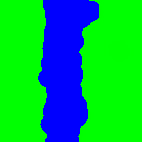
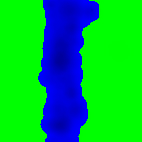
fixed minimap generation

Changed region(s): [[0.3099, 0.0, 0.6761, 0.9859]]

diff --git a/mapEditorAppState.cpp b/mapEditorAppState.cpp
@@ -64,15 +64,25 @@ namespace battleship{
 		}
 		else{
 			map->load(name);
-
 			int numPlayers = map->getNumSpawnPoints();
-			int numVerts = 3 * map->getNodeParent()->getChild(0)->getMesh(0)->getMeshBase().numTris;
-			oldLandmassVertHeights = new float[numVerts];
 
 			for(int i = 0; i < numPlayers; i++)
 				game->addPlayer(new Player(0, 0, 0, Vector3(1, 1, 1)));
 
 			map->loadPlayersGameObjects();
+
+			MeshData meshData = map->getNodeParent()->getChild(0)->getMesh(0)->getMeshBase();
+			int minId = 0, numVerts = 3 * meshData.numTris;
+			oldLandmassVertHeights = new float[numVerts];
+
+			for(int i = 0; i < numVerts; i++){
+				oldLandmassVertHeights[i] = meshData.vertices[i].pos->y;
+
+				if(oldLandmassVertHeights[i] < oldLandmassVertHeights[minId])
+					minId = i;
+			}
+
+			map->setBaseHeight(oldLandmassVertHeights[minId]);
 		}
 	}
 
@@ -412,16 +422,16 @@ namespace battleship{
 		Vector3 mapSize = map->getMapSize(), cellSize = map->getCellSize();
 		int width = int(mapSize.x / cellSize.x);
 		int height = int(mapSize.z / cellSize.z);
-		int numChannels = 3;
+		int cellId = 0, numChannels = 3;
 		int size = width * height * numChannels;
-		int cellId = 0;
 		float baseHeight = map->getBaseHeight();
 
 		u8 *imgData = new u8[size];
 
 		for(u8 *p = imgData; p != imgData + size; p+= numChannels, cellId++){
 			float min = .6, max = 1.;
-			float heightFactor = min + (max - min) * (cells[cellId].pos.y - baseHeight) / mapSize.y;
+			float bottomCellHeight = cells[cellId].pos.y - map->getCellSize().y * cells[cellId].underWaterCellIds.size();
+			float heightFactor = min + (max - min) * (bottomCellHeight - baseHeight) / mapSize.y;
 			Vector3 color = (cells[cellId].type == Map::Cell::Type::WATER ? Vector3::VEC_K : Vector3::VEC_J);
 
 			*p = color.x * heightFactor * 255.f;
